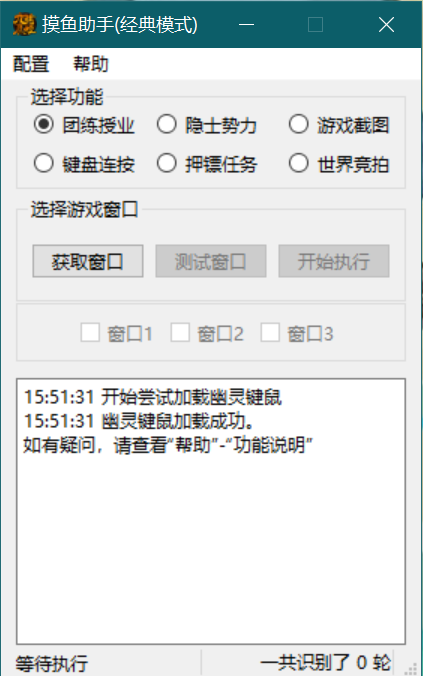
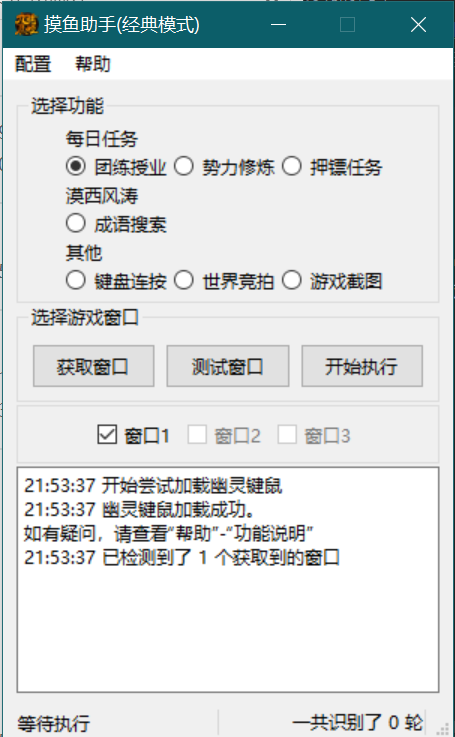
优化成语查询

Changed region(s): [[0.0, 0.0, 1.0, 1.0], [0.6147, 0.466, 0.8913, 0.5281], [0.922, 0.466, 0.9527, 0.5281]]

diff --git a/DeskPageV2/DeskPageGUI/MainPage.py b/DeskPageV2/DeskPageGUI/MainPage.py
@@ -432,8 +432,8 @@ class MainGui(QtWidgets.QMainWindow):
         self.table_chengyu_screen = QtWidgets.QTableWidget()  # 查询游戏页面上的文字
         self.table_chengyu_screen.setFixedHeight(300)
 
-        self.push_button_chengyu_get_pic_text = QtWidgets.QPushButton("获取")
-        self.push_button_chengyu_search = QtWidgets.QPushButton("搜索")
+        self.push_button_chengyu_get_pic_text = QtWidgets.QPushButton("获取文字")
+        self.push_button_chengyu_search = QtWidgets.QPushButton("搜索成语")
 
         self.push_button_chengyu_search.setToolTip("输入关键字模糊查询成语,每个输入框只能输入一个文字")
 

diff --git a/README.md b/README.md
@@ -75,7 +75,6 @@ https://segmentfault.com/q/1010000039054120/a-1020000039066088
 字段说明:  
 例如:  "梵心降魔": {"CD": 2, "active_cd": 1, "level": 2, "key": "Q"}  
 
-
 |    字段名    |   注释   |  字符类型  | 备注                                                    |
 |:---------:|:------:|:------:|:------------------------------------------------------|
 |   梵心降魔    |  技能名称  | String | 用于判断这是哪个技能，填写时请确保有双引号。                                |
@@ -84,14 +83,21 @@ https://segmentfault.com/q/1010000039054120/a-1020000039066088
 |   level   | 释放优先级  |  Int   | 技能释放优先度。数字越小越先释放。支持多个技能相同优先级。                         |
 |    key    |  键盘按键  | String | 技能对应的键盘按键，填写时请确保有双引号。请根据实际情况填写。不支持组合键。                |
 
-
-
 * 注意: 怒气招请的优先级请设置为最低。因为没有判断当前角色的“怒气值”是否足够。或者怒气招如果是加BUFF类型的，干脆就不填写此招式。  
 * 如果您也是一个峨眉使用金鼎套路，那么就只需要修改对应的 “Key”(技能对应的键盘按键)即可。 
 * 押镖时建议先按F8屏幕一下其他玩家，减少干扰。  
 * <b><font color=red>目前押镖只支持“御风神水”，不支持骑马。</font></b>
 * 每次执行押镖任务时，默认押镖次数为5次。如果需要修改，请在“配置”--“修改配置”--“最大押镖次数”输入您需要的次数。
 * 目前还没有做过多的干扰项判断(比如垃圾四害的干扰)，在打劫镖的NPC时，会受到游戏内的横幅提示的影响。(例如：某某帮会发动了追杀，某某玩家砸蛋出了金丝粉)，横幅会的出现会遮挡劫镖NPC放技能的图标，导致人物无法格挡技能被击飞，影响后续的镖车判断。  
+
+<div align=center>
+<img src="https://github.com/moonlessdark/JiuYinDance/blob/master/DeskPageV2/Resources/cover3.PNG">
+</div>  
+
+### 关于成语搜索  
+* 由于OCR识别精度较差，会出现识别错误或者漏识别的问题，请自己手动补充完善一下。  
+* 本脚本一共收录了接近5万个成语，应该能够覆盖大部分的成语了。    
+* 感谢: https://github.com/mapull/chinese-dictionary/tree/main/idiom  
 
 ### 关于世界竞拍  
 * 只会去竞拍关注列表中的物品，当关注列表中没有物品时将自动结束竞拍。  
@@ -106,6 +112,11 @@ https://segmentfault.com/q/1010000039054120/a-1020000039066088
 * 按钮之间增加随机等待时间，尽量表现的像个人(但是会影响执行速度，表现出的效果就是按键的时候时快时慢)  
 
 # 更新日志  
+2024年8月21日  
+优化:  
+1、成语搜索改为使用 11*9的表格展示，方便修补识别错误/漏掉的文字。  
+2、本地成语文件更新为接近5万个成语，应该能覆盖大部分的情况了。  
+
 
 2024年8月19日  
 新增:  
